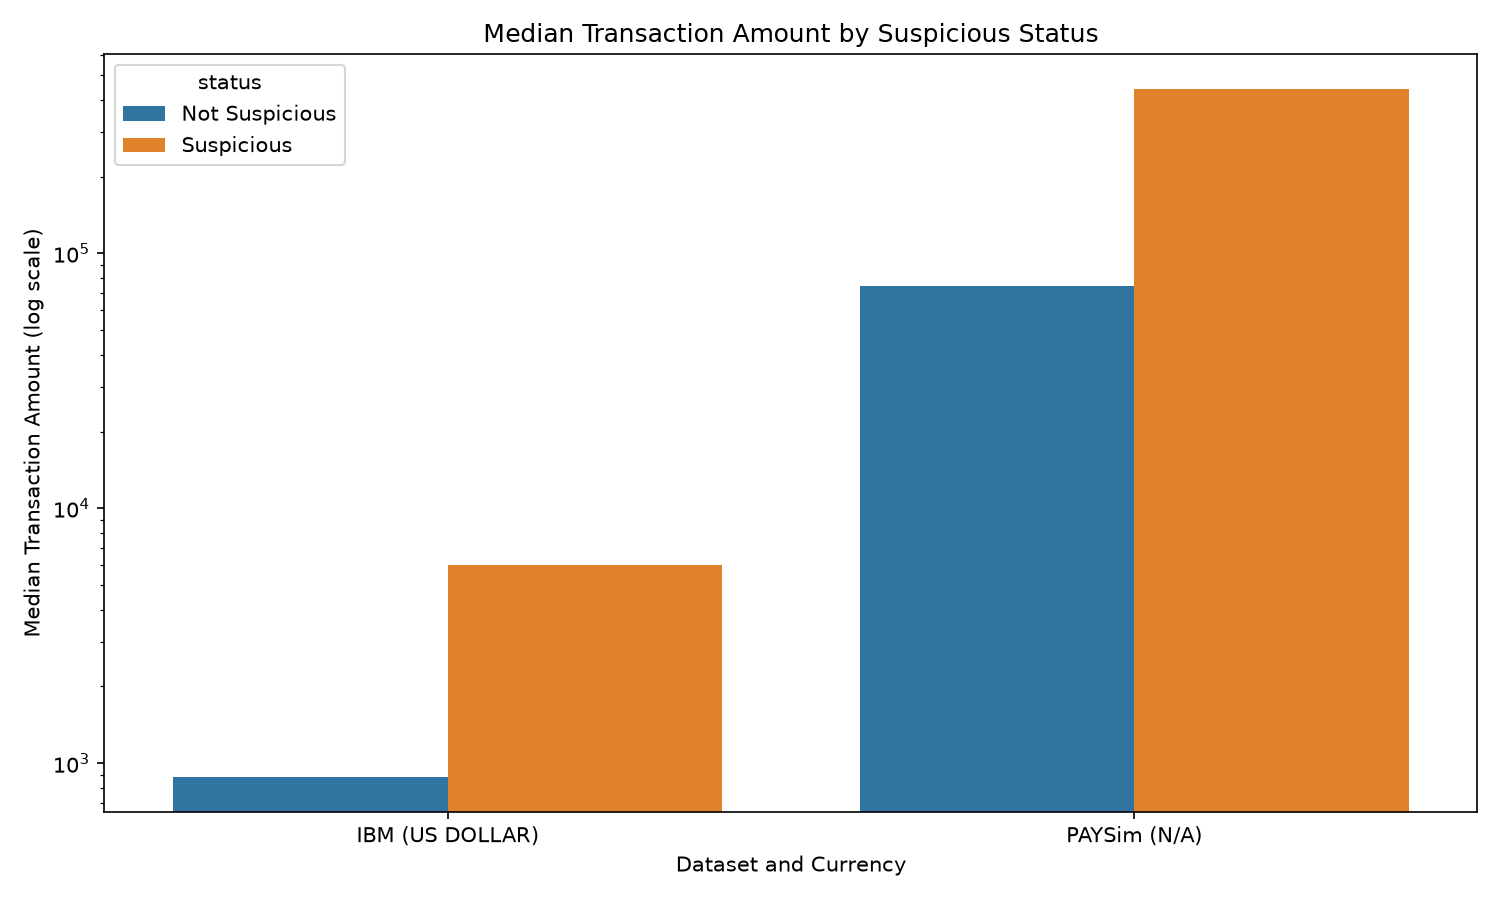
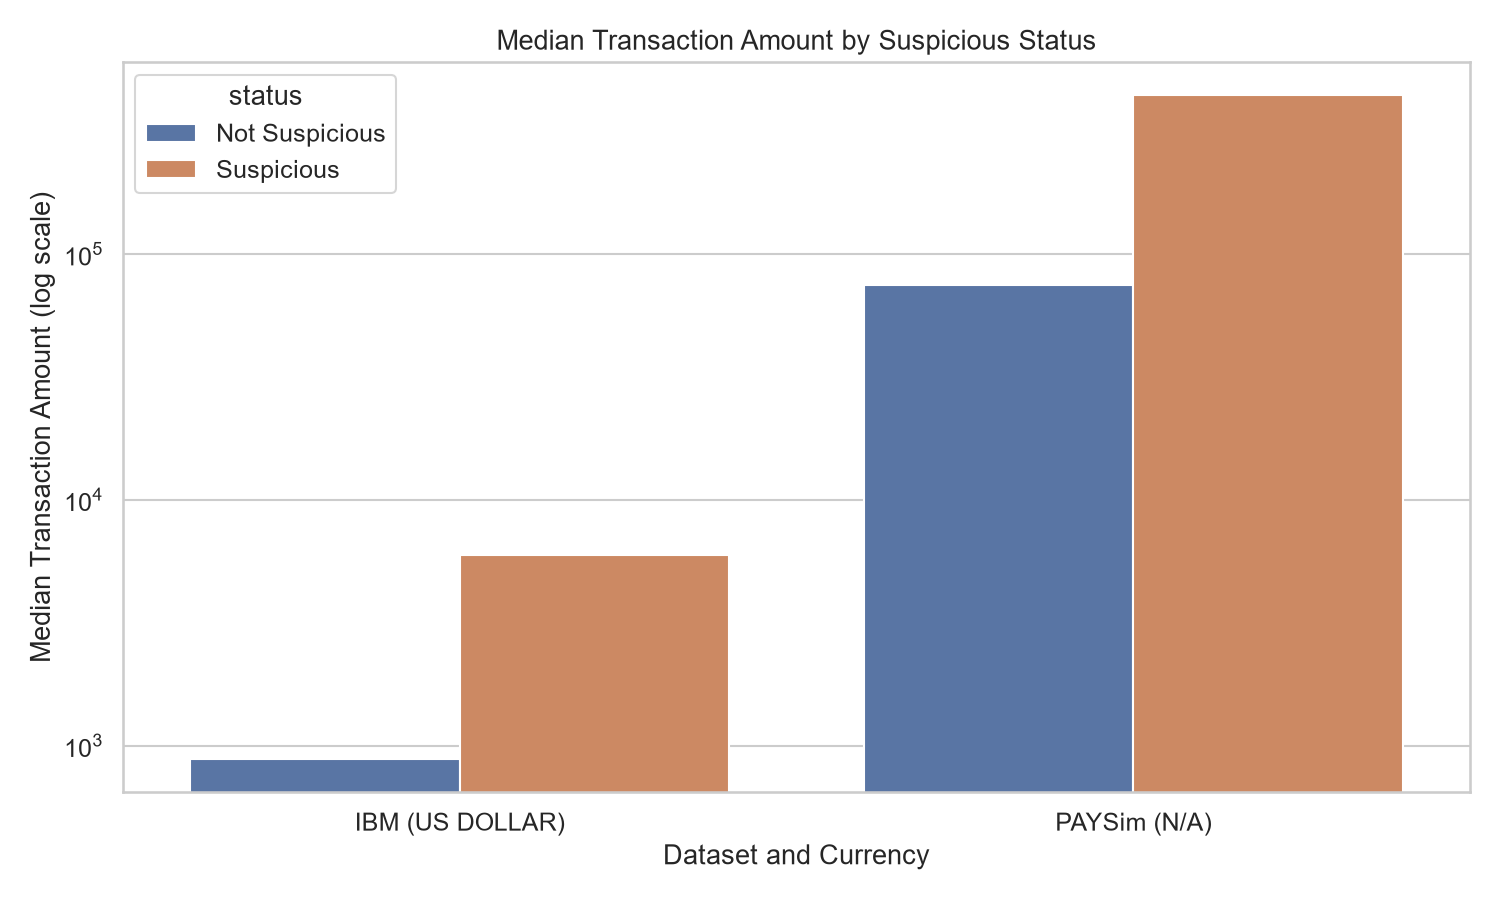
updated README

diff --git a/README.md b/README.md
@@ -32,26 +32,39 @@ Or in the alternate locations:
 
 ## Setup
 
-Create and activate the Conda environment from the project root:
+1. In VS Code, open the repository folder named
+   `COP_3045_2026_Fall_Team_2`. This folder is the **project root** and must
+   contain `environment.yml`, `src/`, `04-EDA/`, and `05-Report/`.
 
-```bash
-conda env create -f environment.yml
-conda activate cop3045
-```
+2. Open the VS Code terminal. Run the commands below in this project root:
 
-If the environment already exists, activate it.
+   ```bash
+   conda env create -f environment.yml
+   conda activate cop3045
+   ```
+
+3. If the `cop3045` environment is already installed, skip the create command
+   and activate it directly:
+
+   ```bash
+   conda activate cop3045
+   ```
+
+The setup commands must be run while the terminal is in the project root.
+Do not run them from inside `src/`, `04-EDA/`, or `05-Report/`.
 
 ## Run the project
 
 From the project root, run the full workflow:
 
 ```bash
-python run_all.py
+python src/main.py
 ```
 
 The workflow cleans both datasets, produces summary statistics, generates
-exploratory data analysis charts, and creates the PDF report. To regenerate
-just the report after the cleaned data is available, run:
+exploratory data analysis charts, and creates the PDF report.
+
+To regenerate just the report after the cleaned data is available, run:
 
 ```bash
 python 05-Report/generate_report.py
@@ -106,11 +119,10 @@ from the two datasets can be interpreted separately.
 
 ## Project structure
 
-- `run_all.py` runs the full workflow in order.
 - `src/data_processing.py` cleans and combines the transaction datasets.
-- `src/main.py` runs data cleaning and exports the cleaned and combined data.
+- `src/main.py` runs the full workflow in order and exports the project outputs.
 - `src/summary_statistics.py` produces summary statistics.
 - `04-EDA/` contains the graphical EDA workflow and chart output.
 - `05-Report/` contains the PDF report generator and report output.
 
-The src/ package separates CSV loading, preprocessing, summary statistics, exploratory data analysis, and PDF reporting into individual modules. src/paths.py defines the shared input and output locations, and run_all.py runs the pipeline stages in order.
+The src/ package separates CSV loading, preprocessing, summary statistics, exploratory data analysis, and PDF reporting into individual modules. src/paths.py defines the shared input and output locations, and `python src/main.py` runs the pipeline stages in order.
